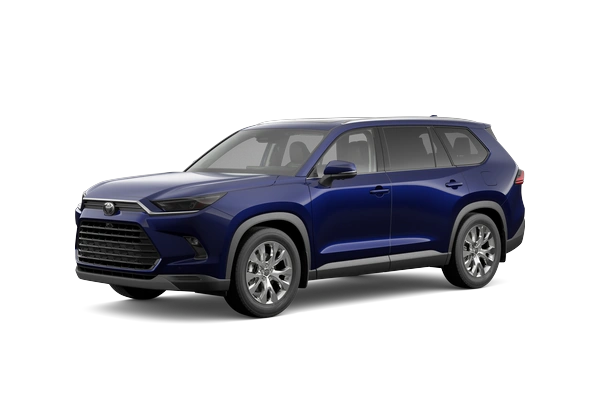
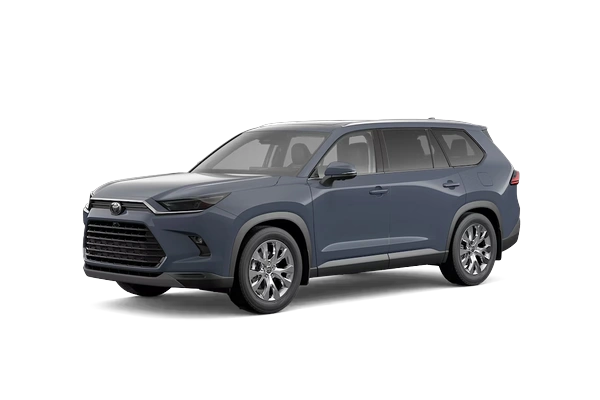
Add ese, esh, lc images; update ghi; rebuild all WebP outputs

Changed region(s): [[0.12, 0.27, 0.9, 0.81]]

diff --git a/vehicle_images/index.html b/vehicle_images/index.html
@@ -597,6 +597,10 @@
             <img src="https://krystiankrasno.github.io/vehicle_images/vehicle_images/images-web/l-c.webp" alt="L-C" title="L-C">
             <figcaption>L-C <small>(L-C)</small></figcaption>
         </figure>
+        <figure>
+            <img src="https://krystiankrasno.github.io/vehicle_images/vehicle_images/images-web/lc.webp" alt="LC" title="LC">
+            <figcaption>LC <small>(LC)</small></figcaption>
+        </figure>
     </div>
     <h2>Venza</h2>
     <div class="grid">
